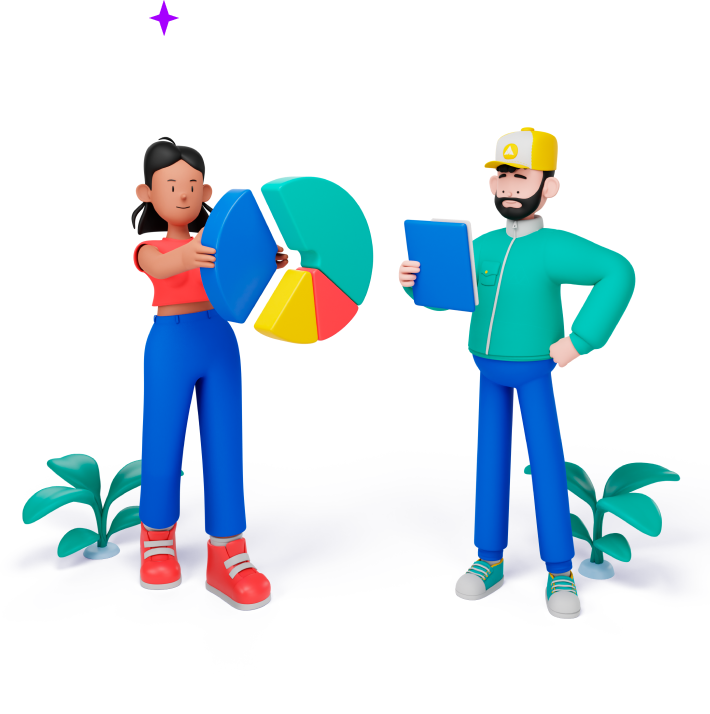
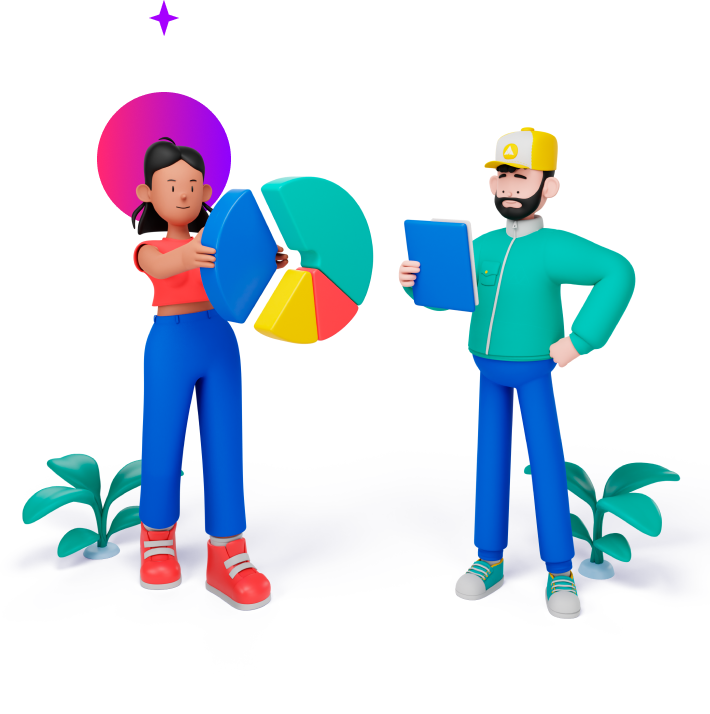
modified judging section

Changed region(s): [[0.1239, 0.1232, 0.3408, 0.3081]]

diff --git a/src/app/components/PointDetails.tsx b/src/app/components/PointDetails.tsx
@@ -31,14 +31,14 @@ const PointDetails = ({ details }: props) => {
         </div>
       </div>
 
-      <div className="grid grid-cols-3 mt-[40px] w-full md:hidden ">
-        <div className="row-start-1 px-[50px] sm:px-[100px] flex flex-col items-center gap-1 self-stretch row-end-3">
+      <div className="grid grid-cols-5 mt-[40px] w-full md:hidden ">
+        <div className="row-start-1 px-[15px] sm:px-[100px] flex flex-col items-center gap-1 self-stretch row-end-3">
           <div className="bg-themepurple h-[calc(100%-29px)] w-[2px]"></div>
           <div className="bg-themepurple text-[12px] font-bold flex justify-center items-center h-[22px] w-[22px] rounded-full">
             {details.number}
           </div>
         </div>
-        <div className="col-span-2 row-start-1 row-end-3">
+        <div className="col-span-4 row-start-1 row-end-3">
           <p className="text-[12px] md:text-[24px] text-themepurple font-bold ">
             {left.title}
           </p>

diff --git a/src/app/template/Privacy.tsx b/src/app/template/Privacy.tsx
@@ -79,7 +79,7 @@ const Privacy = () => {
                         alt="Sample Image"
                         width={30}
                         height={30}
-                        className=" object-cover mt-[10px] -[30px] md:w-[25px] "
+                        className=" object-cover mt-[10px] w-[36px] md:w-[30px] "
                       />{" "}
                     </div>
                     <p className="text-[14px] leading-[30px]">{text}</p>

diff --git a/src/app/template/Judging.tsx b/src/app/template/Judging.tsx
@@ -22,7 +22,7 @@ const Judging = () => {
             />{" "}
           </div>
           <div className="lg:w-[44%] relative px-4 mx-auto lg:text-start text-center w-[80%] md:mt-1">
-          <div className="absolute  bottom-[200px] right-[295px]">
+            <div className="absolute  bottom-[200px] right-[295px]">
               <Blur opacity={"opacity-30"} />
             </div>
             <h5
